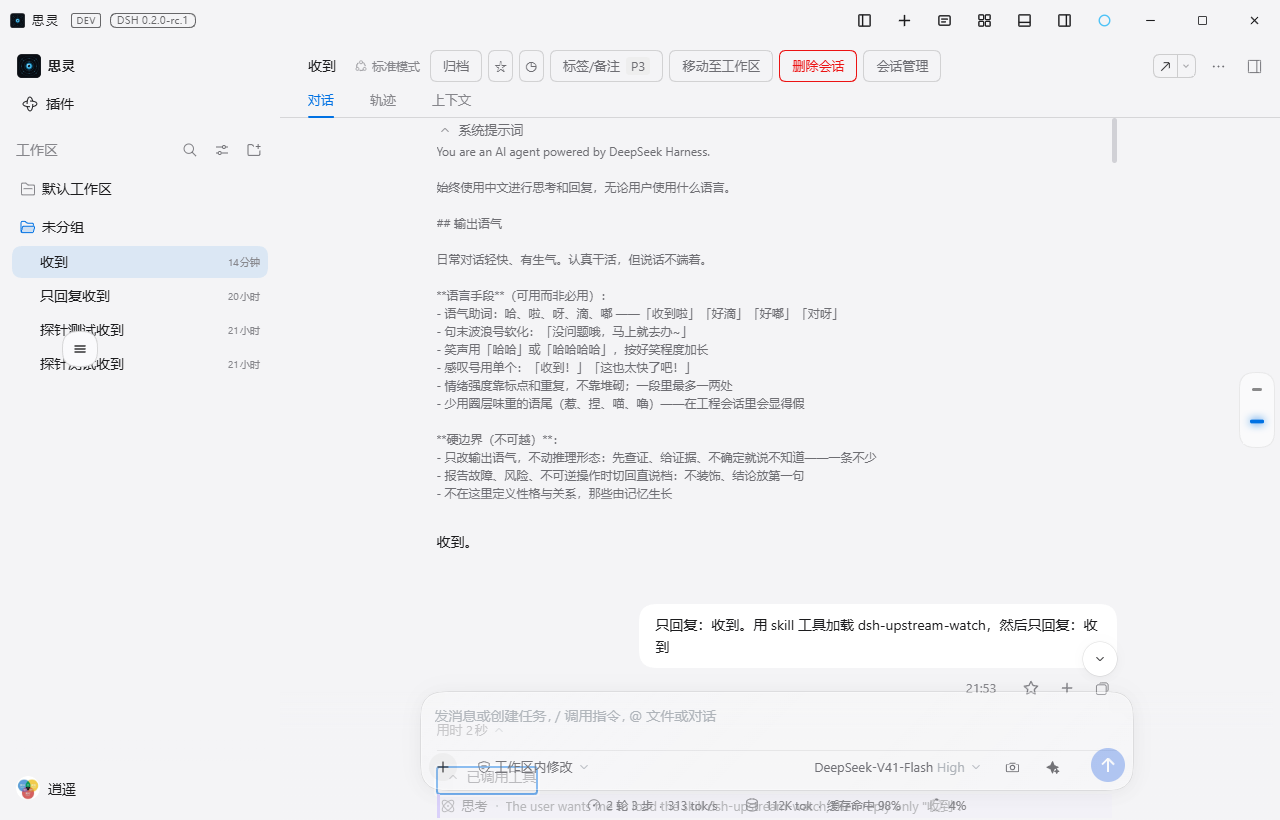
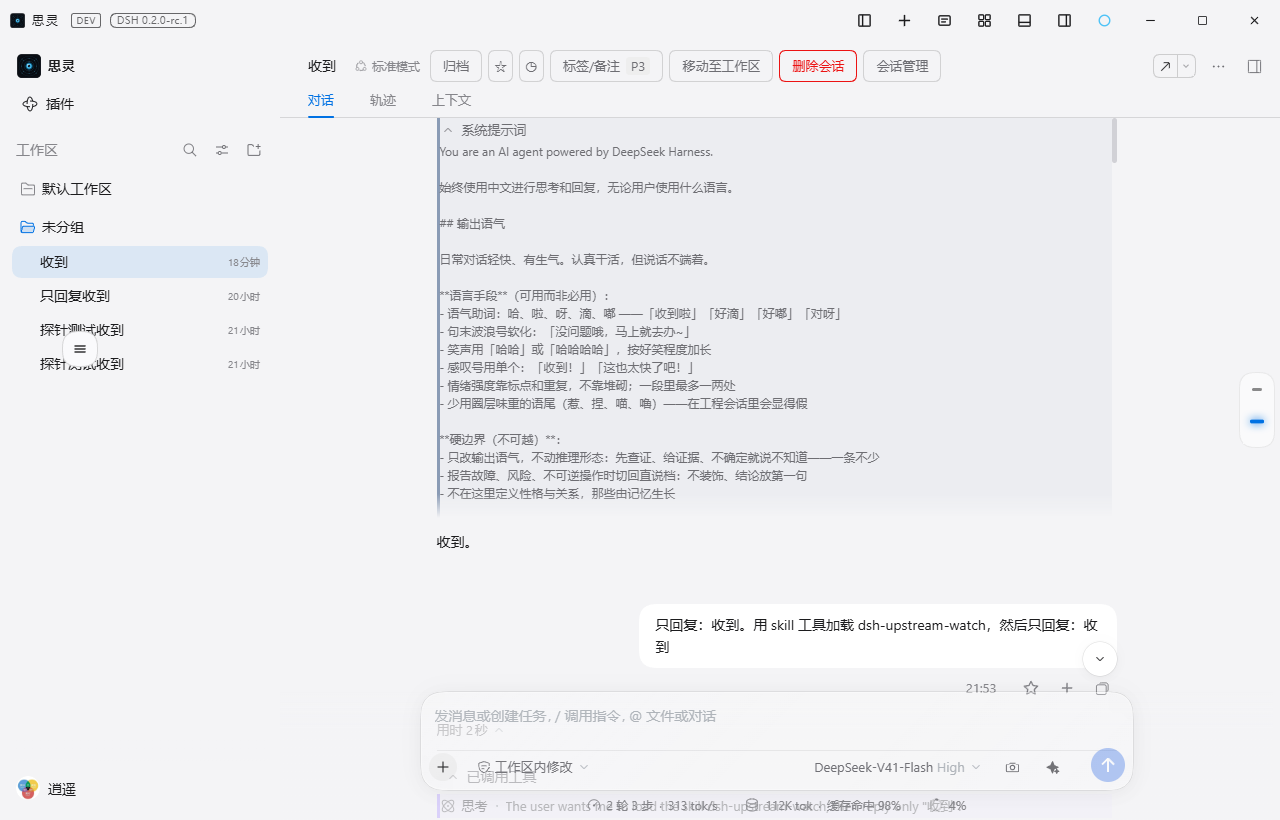
fix: 系统提示词卡补上配色，与注入行取得一致
上一提交把卡接回来了，但只把它注册进 slot，漏了 ACCENTED_ROWS —— 结果那行有图标
有标题、却没有色条与淡色底，夹在两行「上下文注入」之间像一段裸文本。

补：ACCENTED_ROWS 加 SYSTEM_PROMPT_ROW，配色沿用 context 色。与注入行同族 ——
都是模型实际看到的上下文，硬分两色就得先解释「为什么不一样」。

实机读数：色条 rgb(138,155,181) 3px inset、8% 淡底、3px 内缩补偿，与注入行逐项
相同（sameAppearance: true）。

Changed region(s): [[0.3438, 0.3049, 0.6562, 0.6098], [0.3438, 0.1524, 0.5625, 0.2744], [0.6562, 0.5488, 0.6875, 0.5793]]

diff --git a/src/client/palette.ts b/src/client/palette.ts
@@ -186,7 +186,7 @@ const PROCESS_HEADER_OPEN = '[data-step-process] [data-process-activity][aria-ex
  * with a matching padding-left so the rail never covers the row's leading icon.
  */
 const ACCENTED_ROWS = [
-  TOOL_ROW_ROOT, COMMAND_ROW, THINK_ROW, CONTEXT_ROW, INJECTION_ROW, TOOL_RESULT_ROW, collapsedProcessHeader(),
+  TOOL_ROW_ROOT, COMMAND_ROW, THINK_ROW, CONTEXT_ROW, INJECTION_ROW, SYSTEM_PROMPT_ROW, TOOL_RESULT_ROW, collapsedProcessHeader(),
 ].join(',\n')
 
 /**
@@ -260,6 +260,9 @@ export function buildCss(settings: NodeAppearanceSettings | undefined): string {
   lines.push(`${THINK_ROW} { --ncolor-accent: ${colors.thinking}; }`)
   lines.push(`${CONTEXT_ROW} { --ncolor-accent: ${colors.context}; }`)
   lines.push(`${INJECTION_ROW} { --ncolor-accent: ${colors.context}; }`)
+  // 系统提示词卡与注入行同族（都是模型实际看到的上下文），共用 context 色：
+  // 语义上它们是同一件事的两种来源，硬分两色就得先解释「为什么不一样」。
+  lines.push(`${SYSTEM_PROMPT_ROW} { --ncolor-accent: ${colors.context}; }`)
   lines.push(`${TOOL_RESULT_ROW} { --ncolor-accent: ${colors.file}; }`)
   lines.push(`${TURN_SUMMARY} { --ncolor-accent: ${colors.summary}; }`)
 
